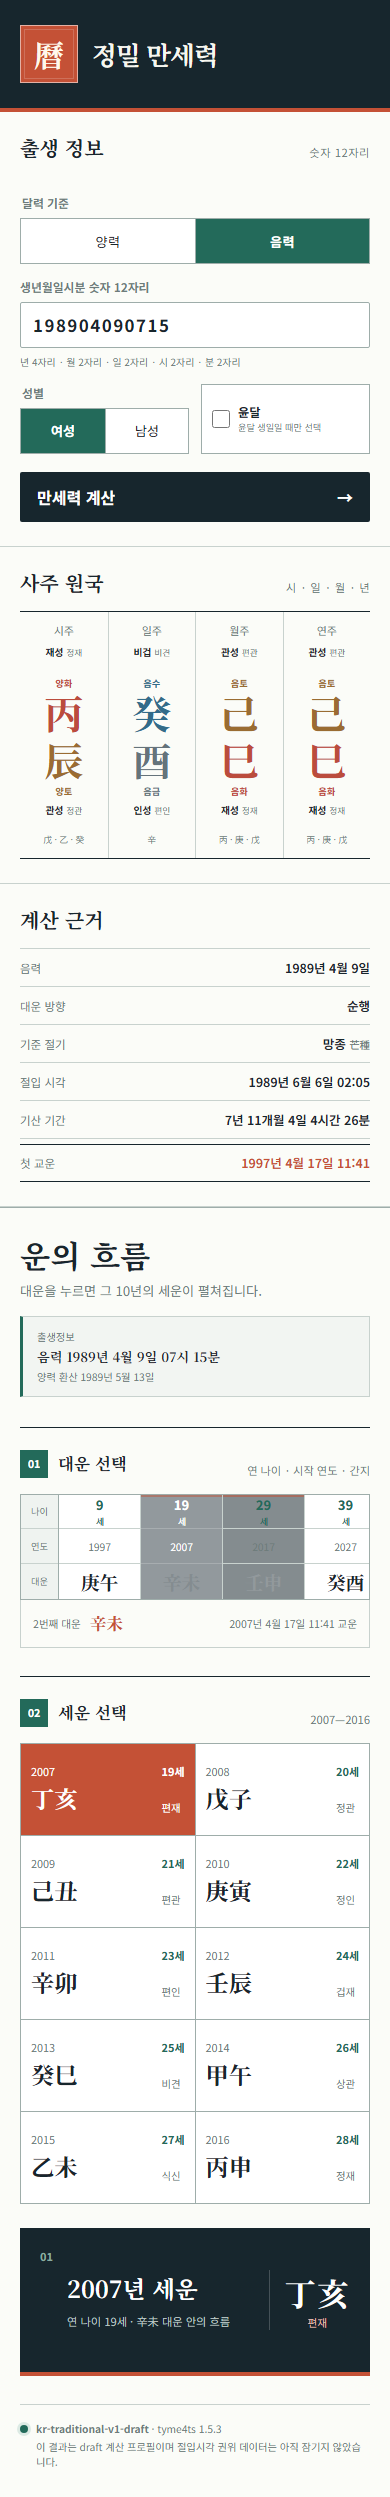
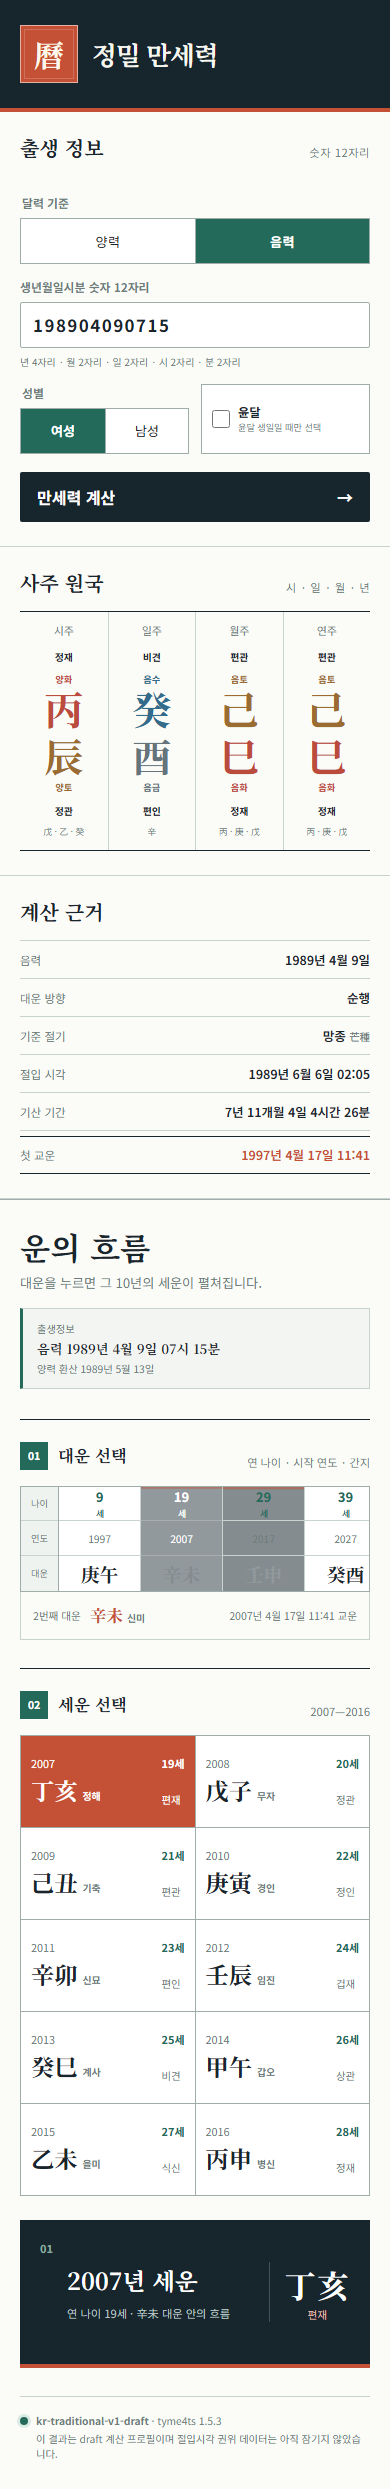
feat: add Korean readings to fortune cycles

diff --git a/src/styles.css b/src/styles.css
@@ -138,18 +138,6 @@ button { color: inherit; }
 .leap-field span { display: grid; line-height: 1.2; }
 .leap-field strong { font-size: .76rem; }
 .leap-field small { margin-top: 2px; color: var(--muted); font-size: .57rem; }
-.calendar-note {
-  min-height: 46px;
-  margin: 0;
-  padding: 0 10px;
-  display: flex;
-  align-items: center;
-  color: var(--muted);
-  border: 1px solid var(--line);
-  background: #f2f5f2;
-  font-size: .68rem;
-}
-
 .calculate-button {
   min-height: 50px;
   margin-top: 4px;
@@ -173,9 +161,7 @@ button { color: inherit; }
 .pillar-column { min-width: 0; padding: 10px 4px 12px; display: grid; place-items: center; border-left: 1px solid var(--line); }
 .pillar-column:first-child { border-left: 0; }
 .pillar-label { color: var(--muted); font-size: .68rem; }
-.relation { min-height: 28px; margin-top: 7px; display: flex; align-items: baseline; justify-content: center; gap: 3px; white-space: nowrap; }
-.relation strong { color: var(--ink); font-size: clamp(.57rem, 2.5vw, .68rem); }
-.relation span { color: var(--muted); font-size: clamp(.52rem, 2.2vw, .62rem); }
+.relation { min-height: 24px; margin-top: 7px; display: flex; align-items: center; justify-content: center; color: var(--ink); font-size: clamp(.57rem, 2.5vw, .68rem); font-weight: 720; white-space: nowrap; }
 .element-label { margin-top: 3px; font-size: clamp(.55rem, 2.35vw, .65rem); font-weight: 740; letter-spacing: .02em; }
 .ganji { width: 100%; display: grid; place-items: center; font: 740 clamp(1.8rem, 10vw, 2.65rem)/1.12 'Noto Serif KR Variable', serif; }
 .ganji.stem { padding-top: 1px; }
@@ -236,18 +222,21 @@ button { color: inherit; }
 .decade-button:focus-visible, .year-button:focus-visible { outline: 3px solid rgba(196,81,54,.4); outline-offset: -3px; z-index: 2; }
 
 .selection-caption { min-height: 48px; padding: 11px 12px; display: grid; grid-template-columns: auto auto 1fr; gap: 9px; align-items: center; color: var(--muted); border: 1px solid var(--line); border-top: 0; font-size: .66rem; }
-.selection-caption strong { color: var(--vermilion); font: 700 1.04rem 'Noto Serif KR Variable', serif; }
-.selection-caption span:last-child { text-align: right; }
+.selection-caption strong { display: flex; align-items: baseline; gap: 4px; color: var(--vermilion); font: 700 1.04rem 'Noto Serif KR Variable', serif; }
+.selection-caption strong small { color: var(--muted); font: 650 .62rem 'Noto Sans KR Variable', sans-serif; }
+.selection-caption > span:last-child { text-align: right; }
 
 .annual-section { padding-bottom: 24px; }
 .year-grid { margin-top: 16px; display: grid; grid-template-columns: repeat(2, minmax(0,1fr)); border-top: 1px solid var(--line-dark); border-left: 1px solid var(--line-dark); }
 .year-button { min-height: 92px; padding: 10px; display: grid; grid-template-columns: 1fr auto; align-content: center; gap: 2px 8px; text-align: left; border: 0; border-right: 1px solid var(--line-dark); border-bottom: 1px solid var(--line-dark); background: #fff; cursor: pointer; }
 .year-number { color: var(--muted); font-size: .68rem; }
 .year-age { color: var(--jade); font-size: .68rem; font-weight: 740; }
+.year-pillar { display: flex; align-items: baseline; gap: 5px; }
 .year-button strong { font: 720 1.45rem 'Noto Serif KR Variable', serif; }
+.year-pillar small { color: var(--muted); font-size: .62rem; font-weight: 680; }
 .year-ten-god { align-self: end; color: var(--muted); font-size: .65rem; }
 .year-button[aria-pressed='true'] { color: #fff; background: var(--vermilion); }
-.year-button[aria-pressed='true'] span { color: #fff; }
+.year-button[aria-pressed='true'] span, .year-button[aria-pressed='true'] small { color: #fff; }
 
 .annual-detail { min-height: 148px; margin-bottom: 28px; padding: 20px; display: grid; grid-template-columns: auto 1fr auto; gap: 14px; align-items: center; color: #fff; background: var(--ink); border-bottom: 4px solid var(--vermilion); }
 .detail-index { align-self: start; color: #89aa9f; font-size: .68rem; font-weight: 800; }

diff --git a/src/App.test.tsx b/src/App.test.tsx
@@ -9,6 +9,7 @@ describe('Manse application', () => {
     render(<App />)
 
     expect(screen.queryByLabelText('표준 시간대')).not.toBeInTheDocument()
+    expect(screen.queryByText('대한민국 표준시 기준')).not.toBeInTheDocument()
     for (const englishSubLabel of [
       'PRECISION CALENDAR · LOCAL LAB',
       'PROFILE',
@@ -28,9 +29,9 @@ describe('Manse application', () => {
     expect(screen.getByText(/망종/)).toBeInTheDocument()
 
     const hourPillar = within(board).getByRole('group', { name: '시주 丙辰' })
-    expect(within(hourPillar).getByText('재성')).toBeInTheDocument()
+    expect(within(hourPillar).queryByText('재성')).not.toBeInTheDocument()
     expect(within(hourPillar).getByText('정재')).toBeInTheDocument()
-    expect(within(hourPillar).getByText('관성')).toBeInTheDocument()
+    expect(within(hourPillar).queryByText('관성')).not.toBeInTheDocument()
     expect(within(hourPillar).getByText('정관')).toBeInTheDocument()
     expect(within(hourPillar).getByText('양화')).toBeInTheDocument()
     expect(within(hourPillar).getByText('양토')).toBeInTheDocument()
@@ -80,8 +81,10 @@ describe('Manse application', () => {
     const decade = screen.getByRole('button', { name: /辛未 대운.*2007년 시작.*19세/ })
     await user.click(decade)
     expect(decade).toHaveAttribute('aria-pressed', 'true')
+    expect(within(screen.getByRole('group', { name: '선택한 대운' })).getByText('신미')).toBeInTheDocument()
 
     const annual = screen.getByRole('button', { name: /2007년.*19세.*丁亥 세운/ })
+    expect(within(annual).getByText('정해')).toBeInTheDocument()
     await user.click(annual)
     expect(annual).toHaveAttribute('aria-pressed', 'true')
     expect(screen.getByRole('heading', { name: '2007년 세운' })).toBeInTheDocument()

diff --git a/src/components/PillarBoard.tsx b/src/components/PillarBoard.tsx
@@ -21,9 +21,8 @@ export function PillarBoard({ pillars }: PillarBoardProps) {
             aria-label={`${pillar.label} ${pillar.pillar}`}
           >
             <span className="pillar-label">{pillar.label}</span>
-            <span className="relation relation-stem" aria-label={`천간 ${pillar.tenGodGroup} ${pillar.tenGod}`}>
-              <strong>{pillar.tenGodGroup}</strong>
-              <span>{pillar.tenGod}</span>
+            <span className="relation relation-stem" aria-label={`천간 십성 ${pillar.tenGod}`}>
+              {pillar.tenGod}
             </span>
             <span className="element-label" data-element={pillar.stemElement}>
               {pillar.stemYinYang}{pillar.stemElementLabel}
@@ -33,9 +32,8 @@ export function PillarBoard({ pillars }: PillarBoardProps) {
             <span className="element-label" data-element={pillar.branchElement}>
               {pillar.branchYinYang}{pillar.branchElementLabel}
             </span>
-            <span className="relation relation-branch" aria-label={`지지 ${pillar.branchTenGodGroup} ${pillar.branchTenGod}`}>
-              <strong>{pillar.branchTenGodGroup}</strong>
-              <span>{pillar.branchTenGod}</span>
+            <span className="relation relation-branch" aria-label={`지지 십성 ${pillar.branchTenGod}`}>
+              {pillar.branchTenGod}
             </span>
             <span className="hidden-stems" aria-label={`지장간 ${pillar.hiddenStems.join(' ')}`}>
               {pillar.hiddenStems.join(' · ')}

diff --git a/src/domain/manse.ts b/src/domain/manse.ts
@@ -1,7 +1,7 @@
 import { Temporal } from '@js-temporal/polyfill'
 import { LunarDay, SixtyCycle, SixtyCycleYear, SolarDay, SolarTime } from 'tyme4ts'
 
-import { getCivilDayCycle, getHourCycle, getTenGod, makePillarInfo, type PillarInfo } from './ganji'
+import { getCivilDayCycle, getHourCycle, getPillarReading, getTenGod, makePillarInfo, type PillarInfo } from './ganji'
 import { addLuckPeriod, convertElapsedToLuckPeriod, splitElapsedSeconds, type ElapsedParts, type LuckPeriod } from './luck'
 import { findBasisTerm, type LuckDirection } from './terms'
 
@@ -18,12 +18,14 @@ export interface AnnualFortune {
   year: number
   age: number
   pillar: string
+  pillarReading: string
   tenGod: string
 }
 
 export interface DecadeFortune {
   ordinal: number
   pillar: string
+  pillarReading: string
   transitionLocal: string
   startYear: number
   startAge: number
@@ -136,6 +138,7 @@ function createAnnualFortunes(
       year,
       age: year - birthYear + 1,
       pillar: cycle.getName(),
+      pillarReading: getPillarReading(cycle.getName()),
       tenGod: getTenGod(dayStem, cycle.getHeavenStem().getName()),
     }
   })
@@ -159,6 +162,7 @@ function createDecadeFortunes(
     fortunes.push({
       ordinal,
       pillar: cycle.getName(),
+      pillarReading: getPillarReading(cycle.getName()),
       transitionLocal: transition.toString({ smallestUnit: 'second' }),
       startYear,
       startAge: startYear - birth.year + 1,

diff --git a/src/domain/ganji.ts b/src/domain/ganji.ts
@@ -41,6 +41,13 @@ const ELEMENT_LABELS: Record<string, string> = {
   水: '수',
 }
 
+const PILLAR_READINGS: Record<string, string> = {
+  甲: '갑', 乙: '을', 丙: '병', 丁: '정', 戊: '무',
+  己: '기', 庚: '경', 辛: '신', 壬: '임', 癸: '계',
+  子: '자', 丑: '축', 寅: '인', 卯: '묘', 辰: '진', 巳: '사',
+  午: '오', 未: '미', 申: '신', 酉: '유', 戌: '술', 亥: '해',
+}
+
 const TEN_GOD_LABELS: Record<string, TenGodInfo> = {
   比肩: { name: '비견', group: '비겁' },
   劫财: { name: '겁재', group: '비겁' },
@@ -78,6 +85,10 @@ export function getTenGodInfo(dayStem: string, targetStem: string): TenGodInfo {
 
 export function getTenGod(dayStem: string, targetStem: string): string {
   return getTenGodInfo(dayStem, targetStem).name
+}
+
+export function getPillarReading(pillar: string): string {
+  return [...pillar].map((character) => PILLAR_READINGS[character] ?? character).join('')
 }
 
 export function makePillarInfo(

diff --git a/src/App.tsx b/src/App.tsx
@@ -140,9 +140,12 @@ export default function App() {
               <p>연 나이 · 시작 연도 · 간지</p>
             </div>
             <LuckRail cycles={result.luck.cycles} selectedIndex={selectedCycleIndex} onSelect={selectCycle} />
-            <div className="selection-caption">
+            <div className="selection-caption" role="group" aria-label="선택한 대운">
               <span>{selectedCycle.ordinal}번째 대운</span>
-              <strong>{selectedCycle.pillar}</strong>
+              <strong>
+                <span>{selectedCycle.pillar}</span>
+                <small>{selectedCycle.pillarReading}</small>
+              </strong>
               <span>{formatDateTime(selectedCycle.transitionLocal)} 교운</span>
             </div>
           </section>

diff --git a/src/components/YearGrid.tsx b/src/components/YearGrid.tsx
@@ -20,7 +20,10 @@ export function YearGrid({ years, selectedIndex, onSelect }: YearGridProps) {
         >
           <span className="year-number">{year.year}</span>
           <span className="year-age">{year.age}세</span>
-          <strong>{year.pillar}</strong>
+          <span className="year-pillar">
+            <strong>{year.pillar}</strong>
+            <small>{year.pillarReading}</small>
+          </span>
           <span className="year-ten-god">{year.tenGod}</span>
         </button>
       ))}

diff --git a/src/components/BirthForm.tsx b/src/components/BirthForm.tsx
@@ -119,9 +119,7 @@ export function BirthForm({ initialValue, onCalculate }: BirthFormProps) {
           />
           <span><strong>윤달</strong><small>윤달 생일일 때만 선택</small></span>
         </label>
-      ) : (
-        <p className="calendar-note">대한민국 표준시 기준</p>
-      )}
+      ) : null}
 
       <button className="calculate-button" type="submit">
         <span>만세력 계산</span>

diff --git a/README.local-app.md b/README.local-app.md
@@ -25,7 +25,8 @@ npm run build
 - `yyyymmddhhmm` 형식의 12자리 생년월일시분 입력
 - 양력·음력 선택과 음력 윤달 입력, 양력 환산일 표시
 - 성별 입력과 대한민국 표준시 기준 계산
-- 원국 천간·지지의 음양오행 색상과 십신·십성 한글 표시
+- 원국 천간·지지의 음양오행 색상과 십성 한글 표시
+- 선택 대운과 세운 카드의 간지 한글 독음 표시
 - 입춘·12절 경계를 적용한 연주와 월주
 - 현지 민간시 00:00 일주 경계와 23:00–00:59 자시
 - 연간 음양과 성별에 따른 대운 순행·역행
